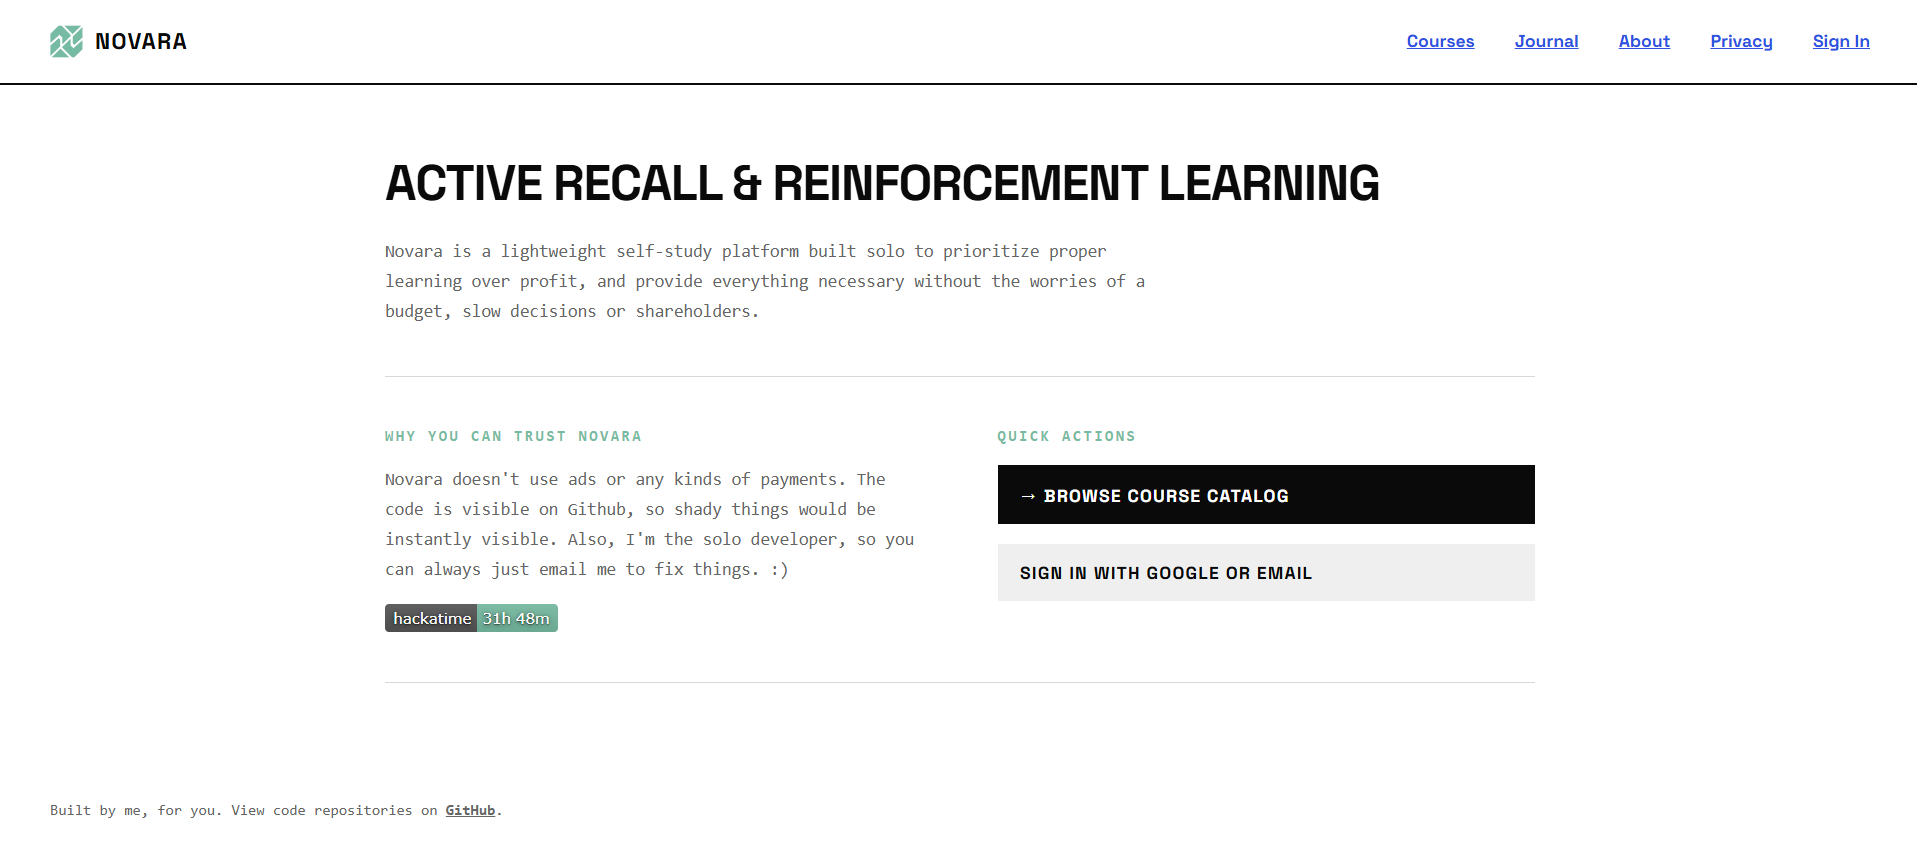
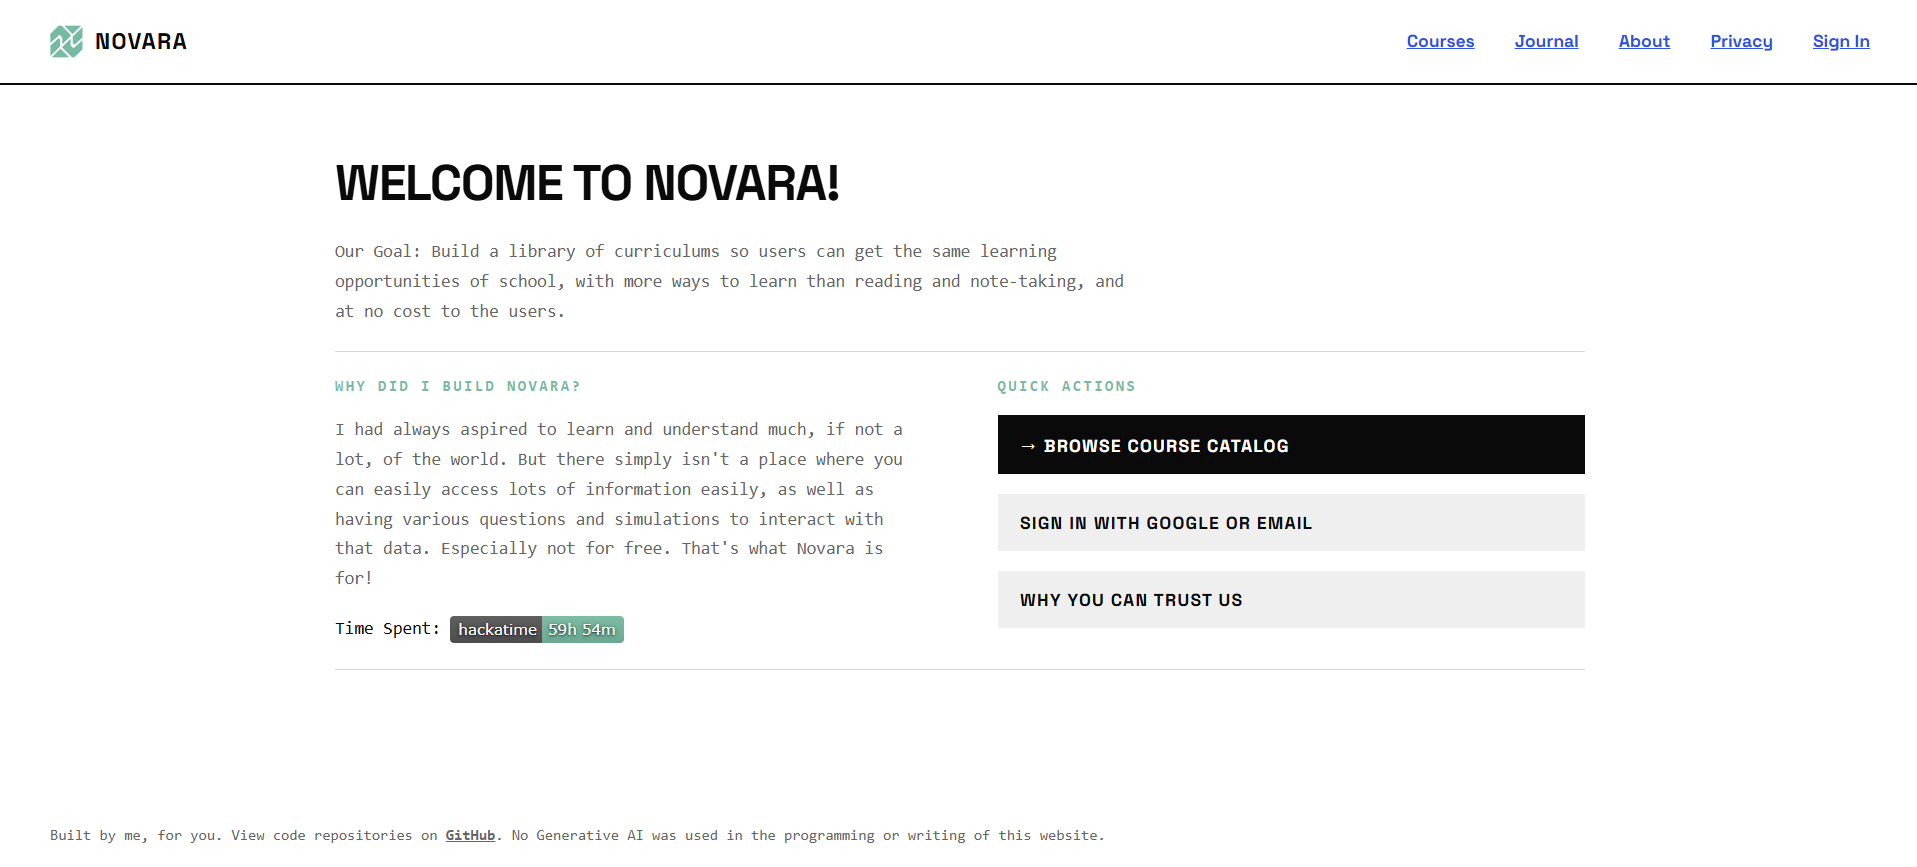
v1.05.34 | SEO stuf  (continue major refactor of data storage)  | 9-20-26

diff --git a/index.html b/index.html
@@ -3,6 +3,18 @@
 <head>
     <meta charset="UTF-8">
     <meta name="viewport" content="width=device-width, initial-scale=1.0">
+    <meta name="description" content="Novara is a free learning platform with curriculums and courses across a variety of subjects, built for focused learning.">
+    <meta property="og:title" content="Novara">
+    <meta property="og:description" content="A free learning platform with curriculums and courses across a variety of subjects.">
+    <meta property="og:image" content="https://novaraedu.org/assets/readme/hero.png">
+    <meta property="og:url" content="https://novaraedu.org">
+    <meta property="og:type" content="website">
+    <meta name="twitter:card" content="summary_large_image">
+    <meta name="twitter:title" content="Novara">
+    <meta name="twitter:description" content="A free learning platform with curriculums and courses across a variety of subjects.">
+    <meta name="twitter:image" content="https://novaraedu.org/assets/readme/hero.png">
+    <meta name="theme-color" content="#ffffff">
+    <link rel="canonical" href="https://novaraedu.org/">
     <title>Novara</title>
     <link rel="stylesheet" href="css/style.css">
     <link rel="stylesheet" href="css/landing.css">
